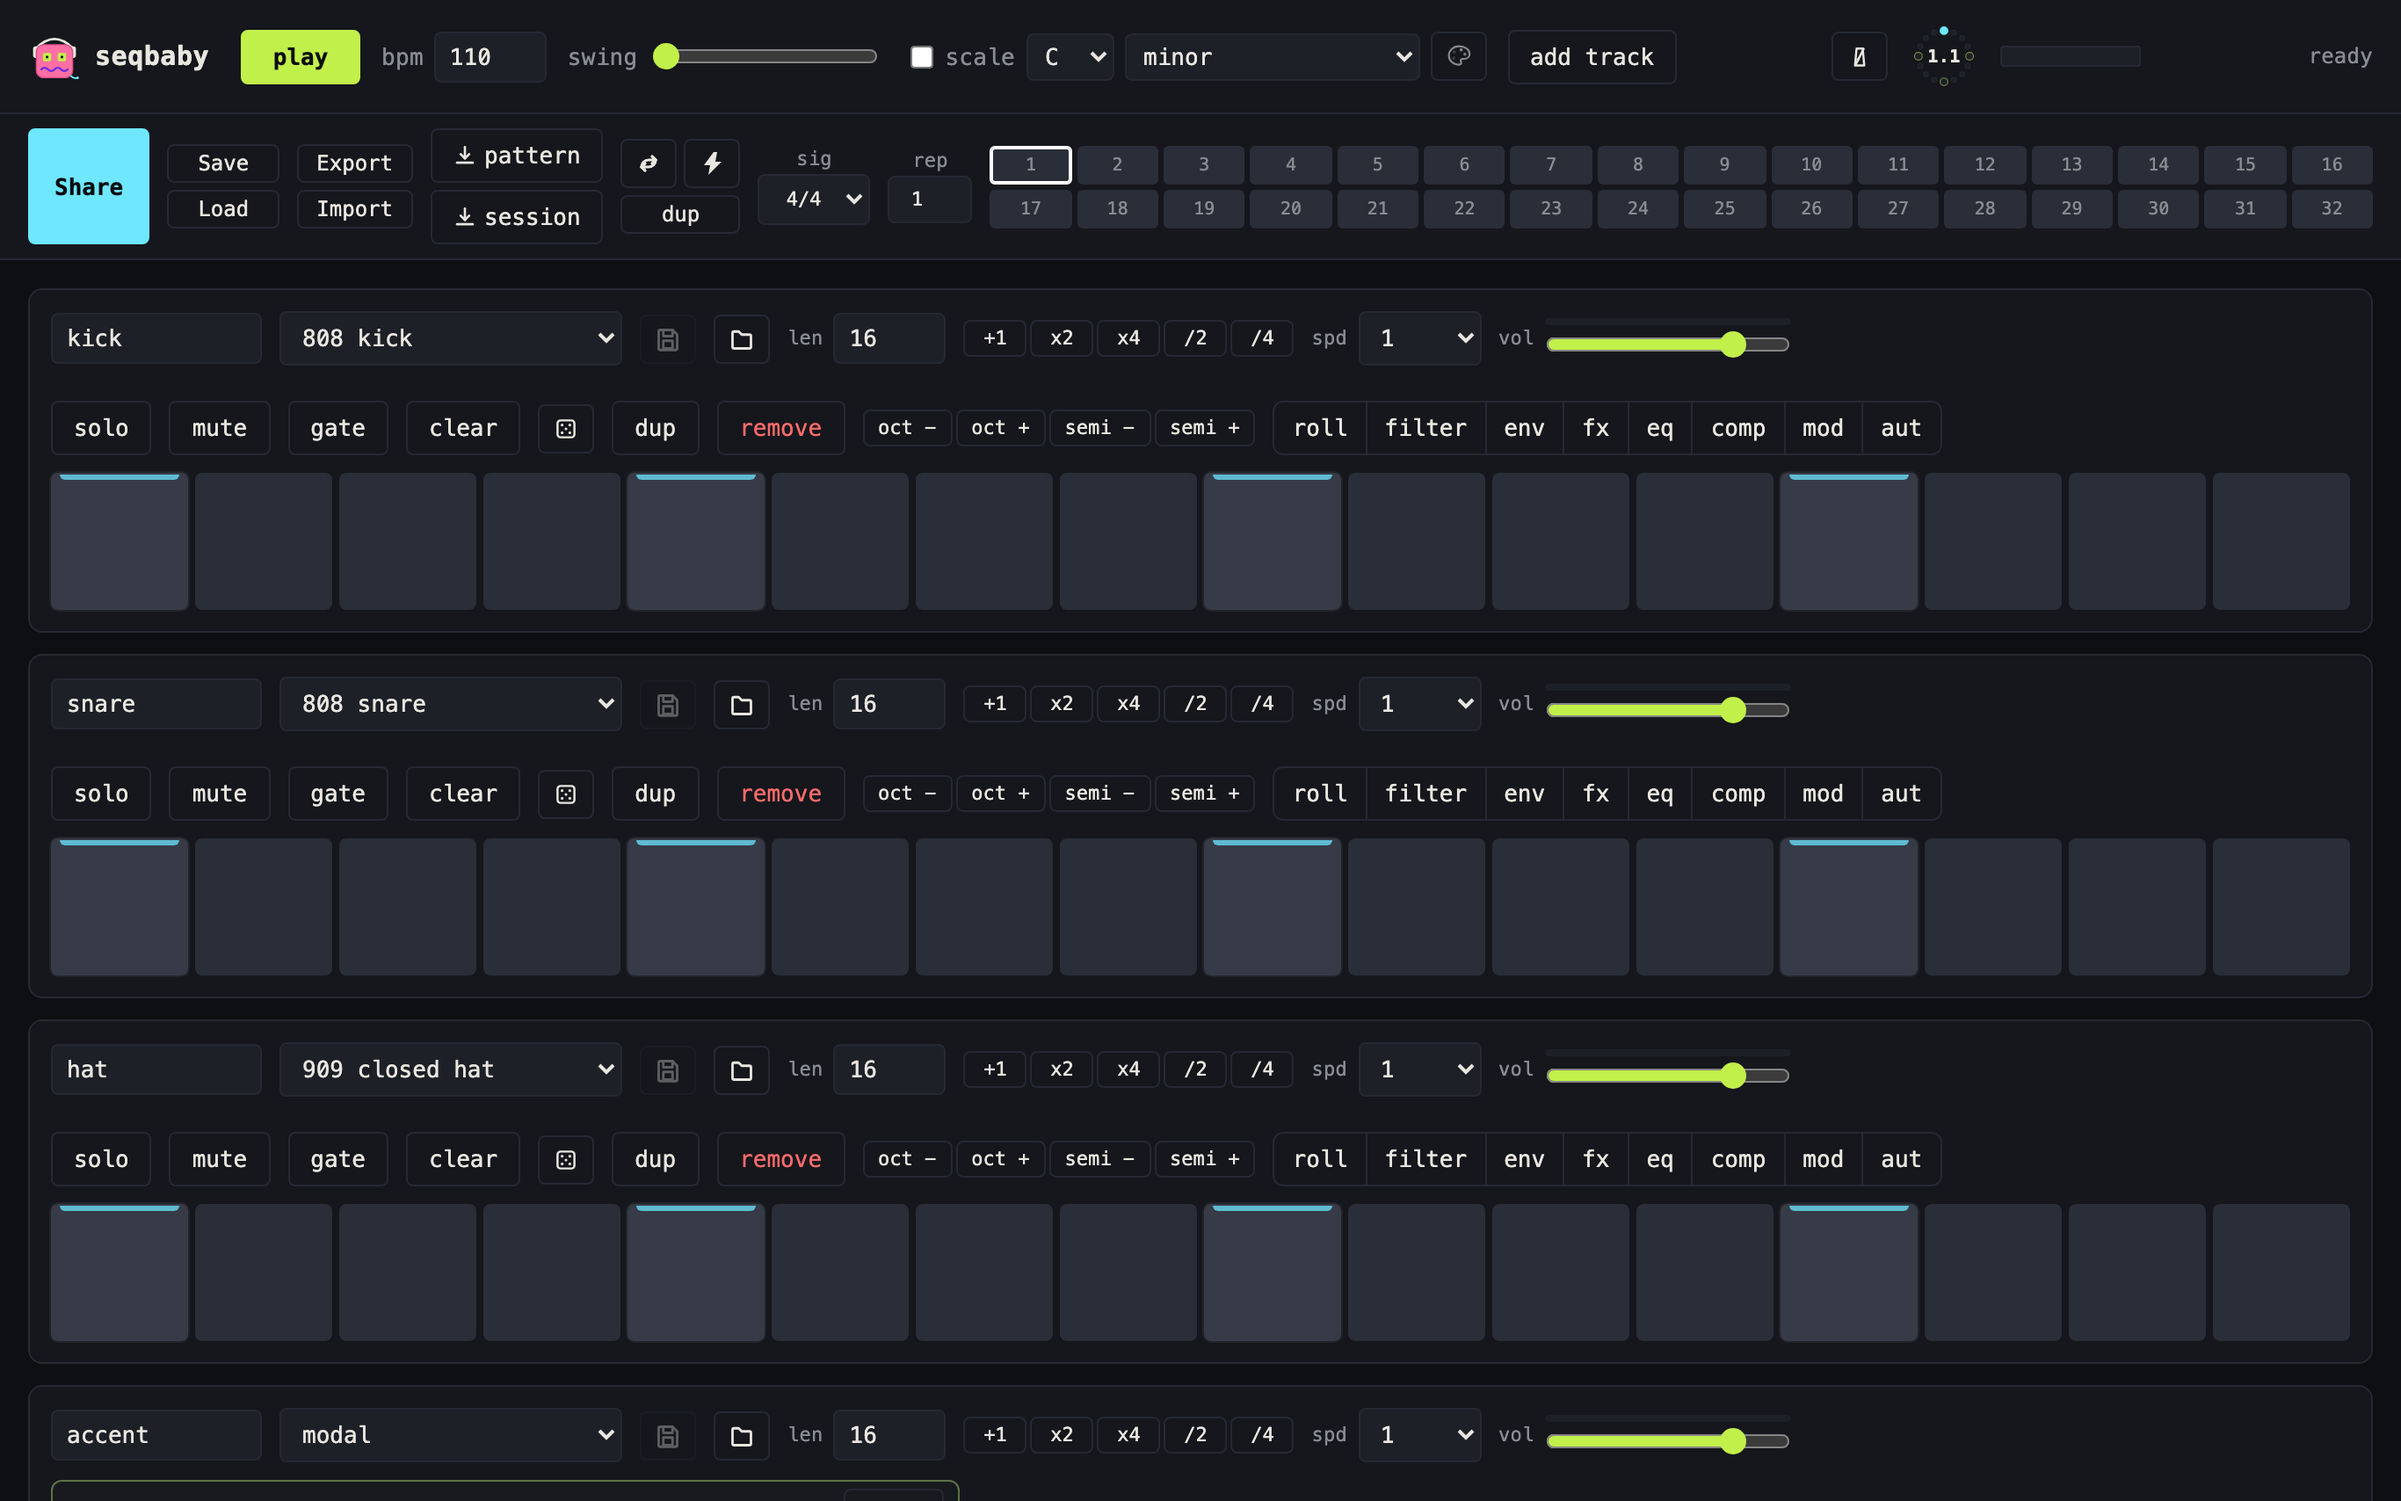
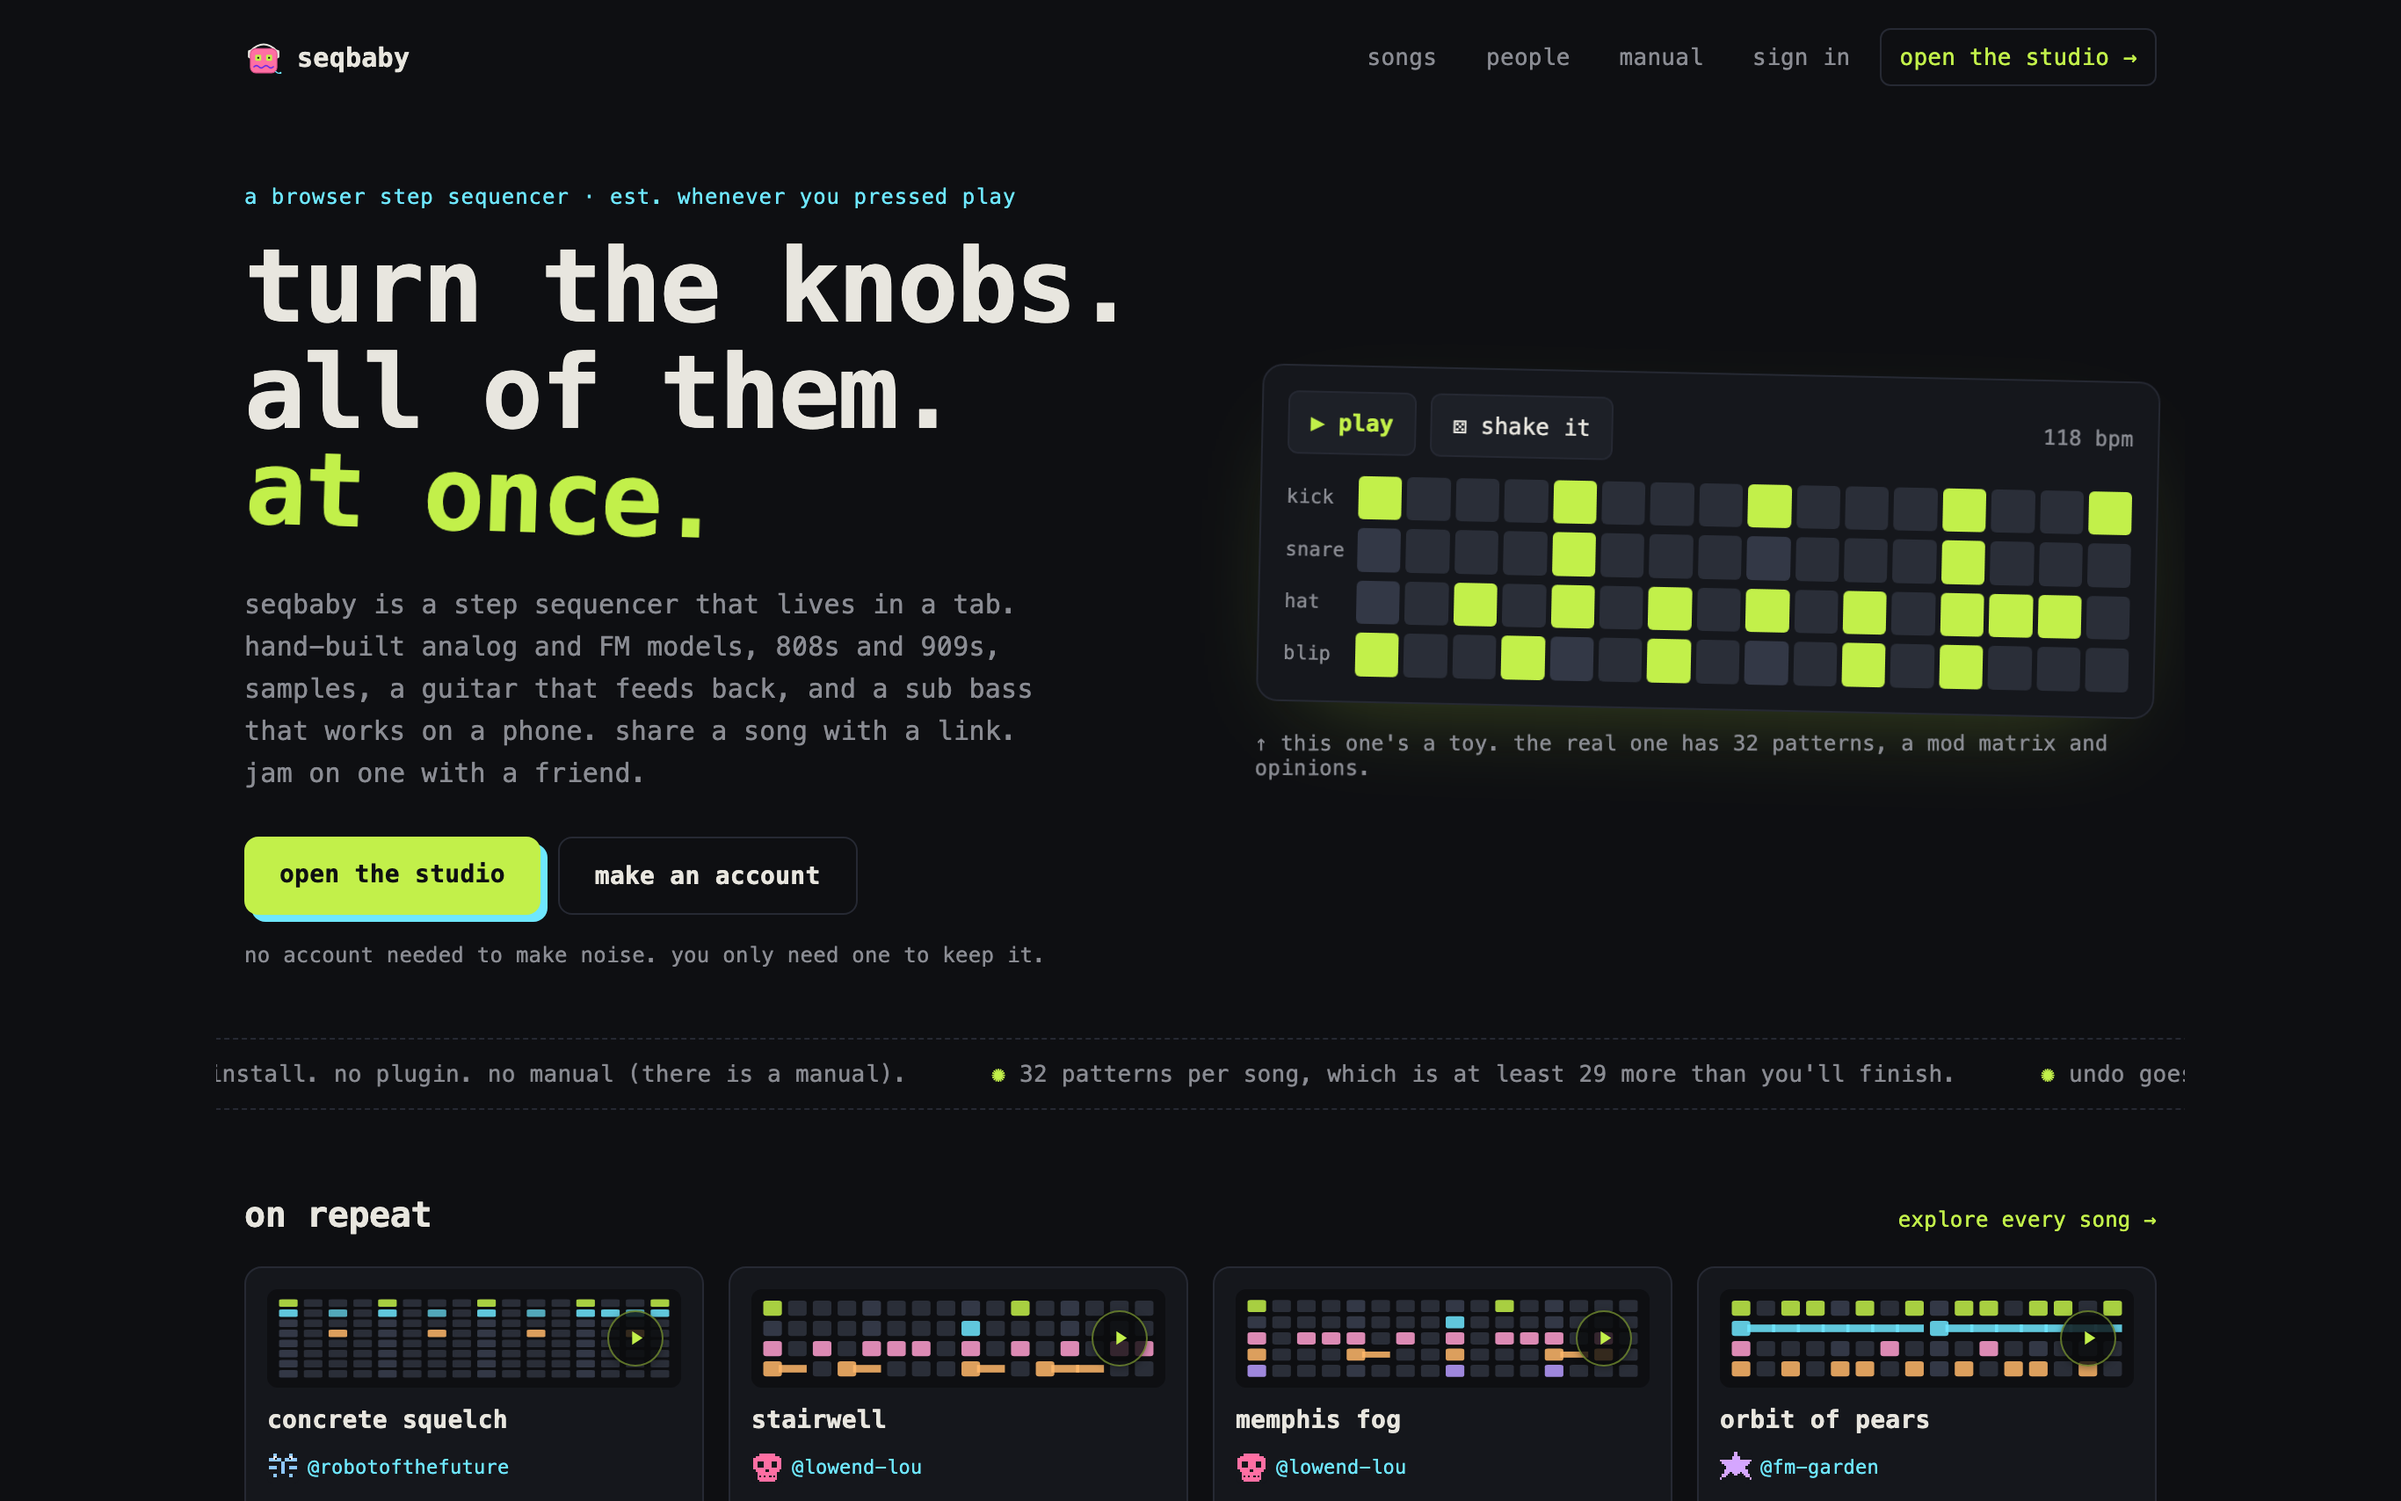
Update seqbaby card for playseqbaby.com
Point the Play link at www.playseqbaby.com, rewrite the description from the
current README, add Supabase to the stack, and replace the screenshot with the
new landing page (2732x1708, 216 KB -> 337 KB).

diff --git a/index.html b/index.html
@@ -294,12 +294,12 @@
     <div class="modules">
       <article class="mod">
         <span class="mod__top"><b>MOD-01</b><span>Instrument</span></span>
-        <img src="assets/img/shots/seqbaby.png" alt="Screenshot of the seqbaby step sequencer interface" loading="lazy" />
+        <img src="assets/img/shots/seqbaby.png" alt="Screenshot of the seqbaby landing page with a playable step sequencer" loading="lazy" />
         <h3>seqbaby</h3>
-        <p>A step sequencer and drum machine in the browser. Per-track synthesis, filters, envelopes, and pattern chaining, with song and patch sharing plus collaborative editing.</p>
-        <span class="mod__stack">Next.js · Web Audio API</span>
+        <p>A multi-engine step sequencer in the browser. 40+ sound sources, from a WebAssembly Plaits port to circuit-modeled AudioWorklets, each with its own filter, EQ, effects, and LFOs. Accounts, link sharing, live jam rooms, and a compose panel that edits songs from a text prompt.</p>
+        <span class="mod__stack">Next.js · Web Audio API · Supabase</span>
         <span class="mod__links">
-          <a href="https://seqbaby.netlify.app/" target="_blank" rel="noopener">Play ↗</a>
+          <a href="https://www.playseqbaby.com/" target="_blank" rel="noopener">Play ↗</a>
           <a href="https://github.com/mjoslyn/seqbaby" target="_blank" rel="noopener">Source ↗</a>
         </span>
       </article>
